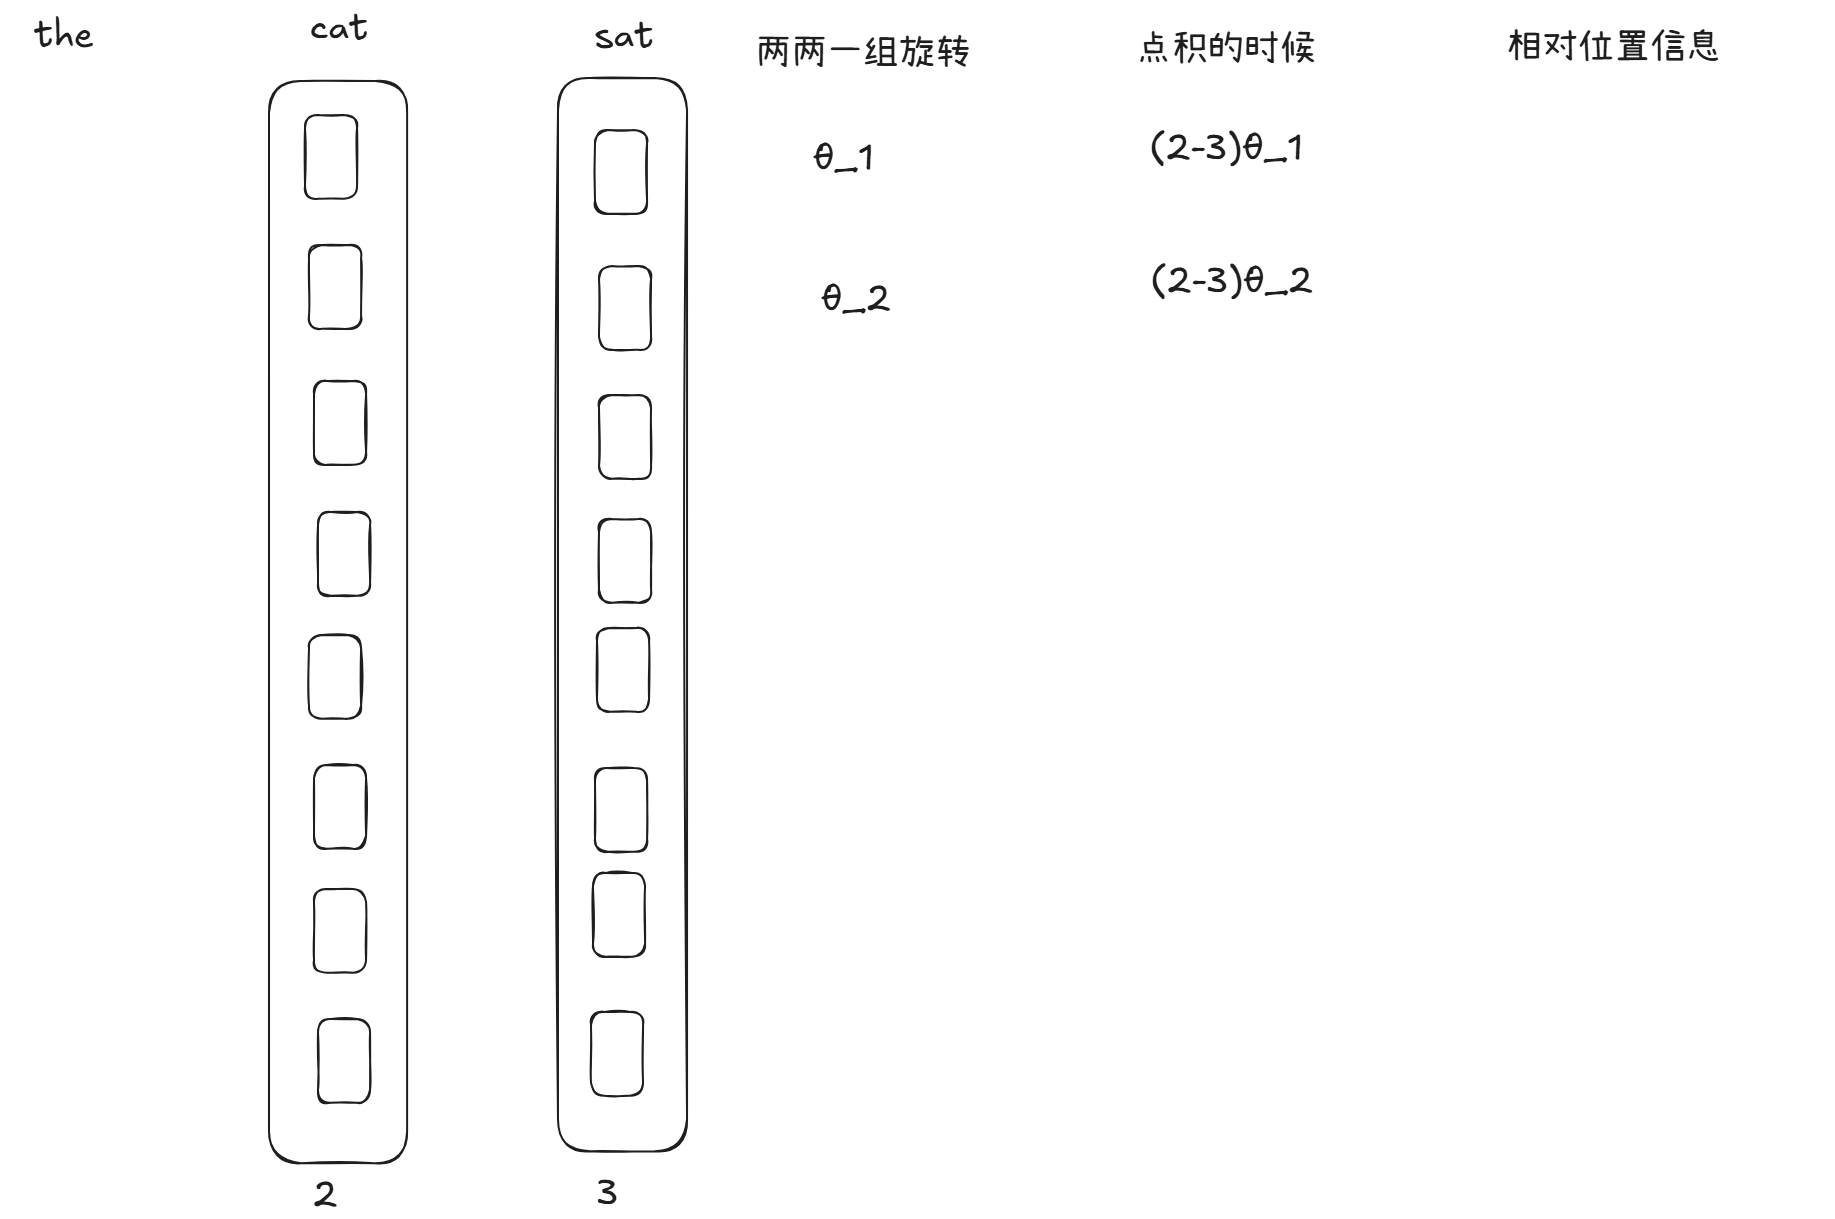
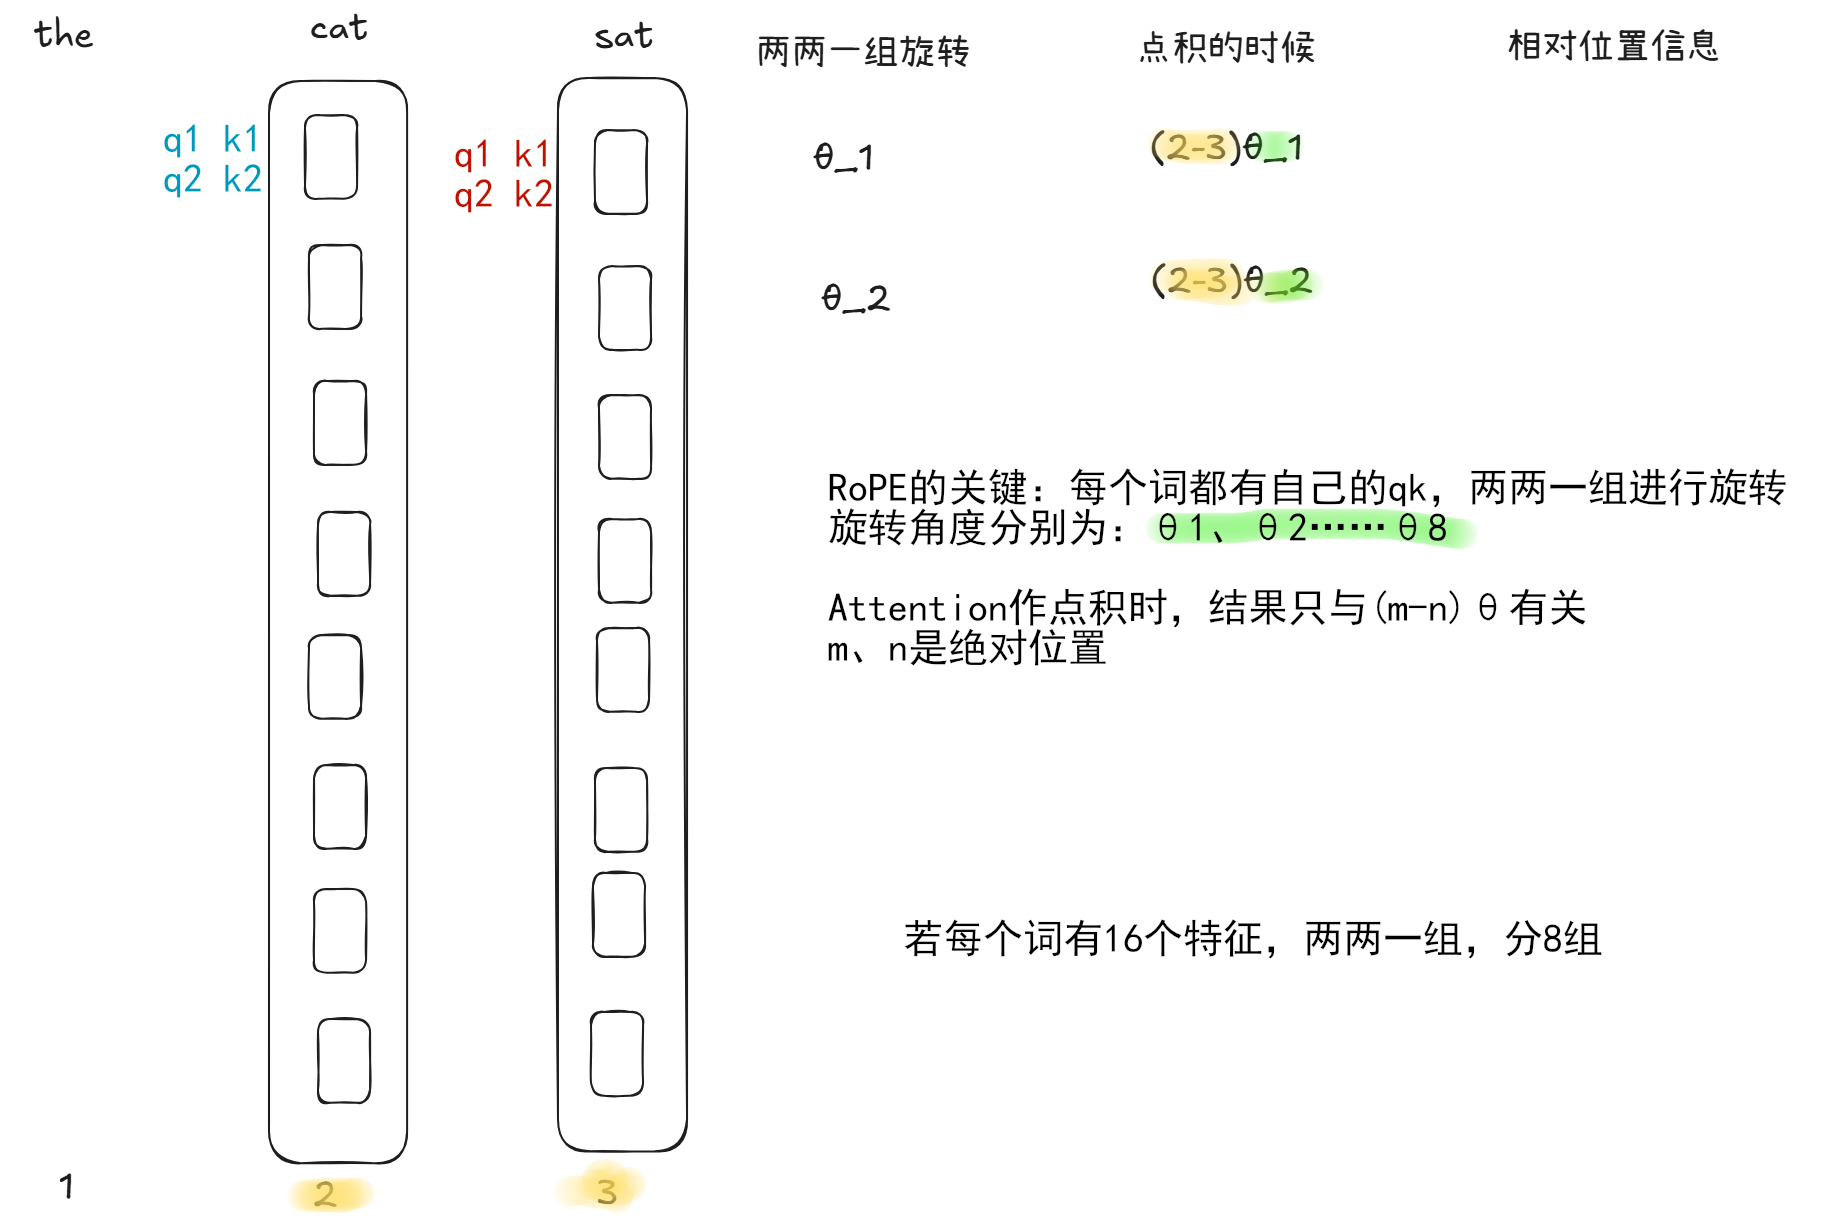
RoPE笔记修改

diff --git a/README.md b/README.md
@@ -197,52 +197,37 @@ class RMSNorm(nn.Module):
 
 ![](img/pe.png)
 
-##### Rotary Position Embedding 1
+> 但是，怎么靠绝对位置发现两个词之间的相对距离/亲密度？假设两个词之间的距离为 $k$：
 
-> RoPE 不把位置信息加上去，而是把向量转起来：
->
-> - 第一个字进来，转10°；
-> - 第二个字进来，转20°…
-> - 当计算注意力时，夹角越小，注意力得分越高，因此可算出字与字之间的相对位置关系！
+- 作者证实了这样一个规律：==$$PE_{pos+k} = 线性组合(PE_{pos}, 距离k)$$==；
 
-==高中学的和角公式==：
-
-- $$\sin(a + b) = \sin a \cos b + \cos a \sin b$$ 
-
-- $$\cos(a + b) = \cos a \cos b - \sin a \sin b$$ 
-
-==假设有一个词向量，它有俩特征 $(x, y)$，根据高中极坐标知识，设这个点距离原点的长度是 $R$，角度是 $\alpha$，那么==：
-
-- $x = R \cos \alpha$
-- $y = R \sin \alpha$
-
-==将其旋转一个角度 $\beta$，新角度就变成了 $(\alpha + \beta)$==：
-
-- $$X_{new} = R \cos(\alpha + \beta)$$ 
-- 根据和角公式展开：$$X_{new} = R (\cos \alpha \cos \beta - \sin \alpha \sin \beta) = (R \cos \alpha)\cos \beta - (R \sin \alpha)\sin \beta$$
-
-- 把前面已知的 $x$ 和 $y$ 替换进去：$$X_{new} = x \cos \beta - y \sin \beta$$ 
-- 同理，计算出：$$Y_{new} = y \cos \beta + x \sin \beta$$ 
-
-==RoPE 利用以上原理，添加了偏移量 $k$ 来计算相对位置==：
-
-- 对于任意绝对位置 $pos$ 和偏移量 $k$，$PE_{pos+k}$ 能表示为 $PE_{pos}$ 的线性组合
+- 即对于任意绝对位置 $pos$ 和偏移量 $k$，$PE_{pos+k}$ 能表示为 $PE_{pos}$ 的线性组合：
 
   $$\begin{aligned} PE_{pos+k, 2i} &= \sin\left(\frac{pos + k}{10000^{2i/d_{model}}}\right) \\ &= \sin\left(\frac{pos}{10000^{2i/d_{model}}}\right) \cos\left(\frac{k}{10000^{2i/d_{model}}}\right) + \cos\left(\frac{pos}{10000^{2i/d_{model}}}\right) \sin\left(\frac{k}{10000^{2i/d_{model}}}\right) \\ &= PE_{pos, 2i} \cdot C_k + PE_{pos, 2i+1} \cdot S_k \end{aligned}$$
 
   $$\begin{aligned} PE_{pos+k, 2i+1} &= \cos\left(\frac{pos + k}{10000^{2i/d_{model}}}\right) \\ &= \cos\left(\frac{pos}{10000^{2i/d_{model}}}\right) \cos\left(\frac{k}{10000^{2i/d_{model}}}\right) - \sin\left(\frac{pos}{10000^{2i/d_{model}}}\right) \sin\left(\frac{k}{10000^{2i/d_{model}}}\right) \\ &= PE_{pos, 2i+1} \cdot C_k - PE_{pos, 2i} \cdot S_k \end{aligned}$$
 
-  > 其中 $C_k, S_k$ 是只和偏移量 $k$ 有关的常数；
+  > 上述推导用到了高中学的三角恒等式：
   >
-  > 传统 Transformer 的位置编码是“相加”进去的，只能通过海量数据“摸索”出相对位置的规律。而 RoPE 采用“旋转相乘”的方式，在 Q K 点积计算时，Attention 打分只与字与字的相对距离有关。
+  > - $$\sin(a + b) = \sin a \cos b + \cos a \sin b$$ 
   >
-  > <img src = "img/qk.gif" width = "66%">
+  > - $$\cos(a + b) = \cos a \cos b - \sin a \sin b$$ 
 
-- 具体的 RoPE 数学推导，请看[视频](https://www.bilibili.com/video/BV1DHwhzxETu?spm_id_from=333.788.player.switch&vd_source=e4d2c23661f438bbb039b810b5e86053) or [论文](https://arxiv.org/pdf/2104.09864) 
+- 以上推导中 $C_k、 S_k$ 是只和偏移量 $k$ 有关的常数，证明了能通过两个词的绝对位置算出它们相对位置的可行性：作者认为，Attention 训练时，权重矩阵 $W$ 能学会这个 $C_k$ 和 $S_k$，进而找到词与词之间的联系；
 
-##### Rotary Position Embedding 2
+- But！Transformer只证明了模型有能力学会，但不一定能学好，因此，==后来诞生的RoPR，通过几何物理绑定，将这种可行性变成了必然性==！
 
-> 另一位up的[讲解](https://www.bilibili.com/video/BV1T2k6BaEeC?spm_id_from=333.788.videopod.episodes&vd_source=e4d2c23661f438bbb039b810b5e86053&p=9)，以下 $m、n$ 代表绝对位置
+##### Rotary Position Embedding
+
+> RoPE 不把位置信息加上去，而是把向量转起来： [论文](https://arxiv.org/pdf/2104.09864) 
+>
+> - 第一个字进来，转10°；
+> - 第二个字进来，转20°…
+> - 当计算注意力时，夹角越小，注意力得分越高，因此可算出字与字之间的相对位置关系！
+
+<img src = "img/qk.gif" width = "66%">
+
+> 以下来自一位 up 的[讲解](https://www.bilibili.com/video/BV1T2k6BaEeC?spm_id_from=333.788.videopod.episodes&vd_source=e4d2c23661f438bbb039b810b5e86053&p=9)，$m、n$ 代表绝对位置
 >
 > ![](img/rope1.png)
 >
